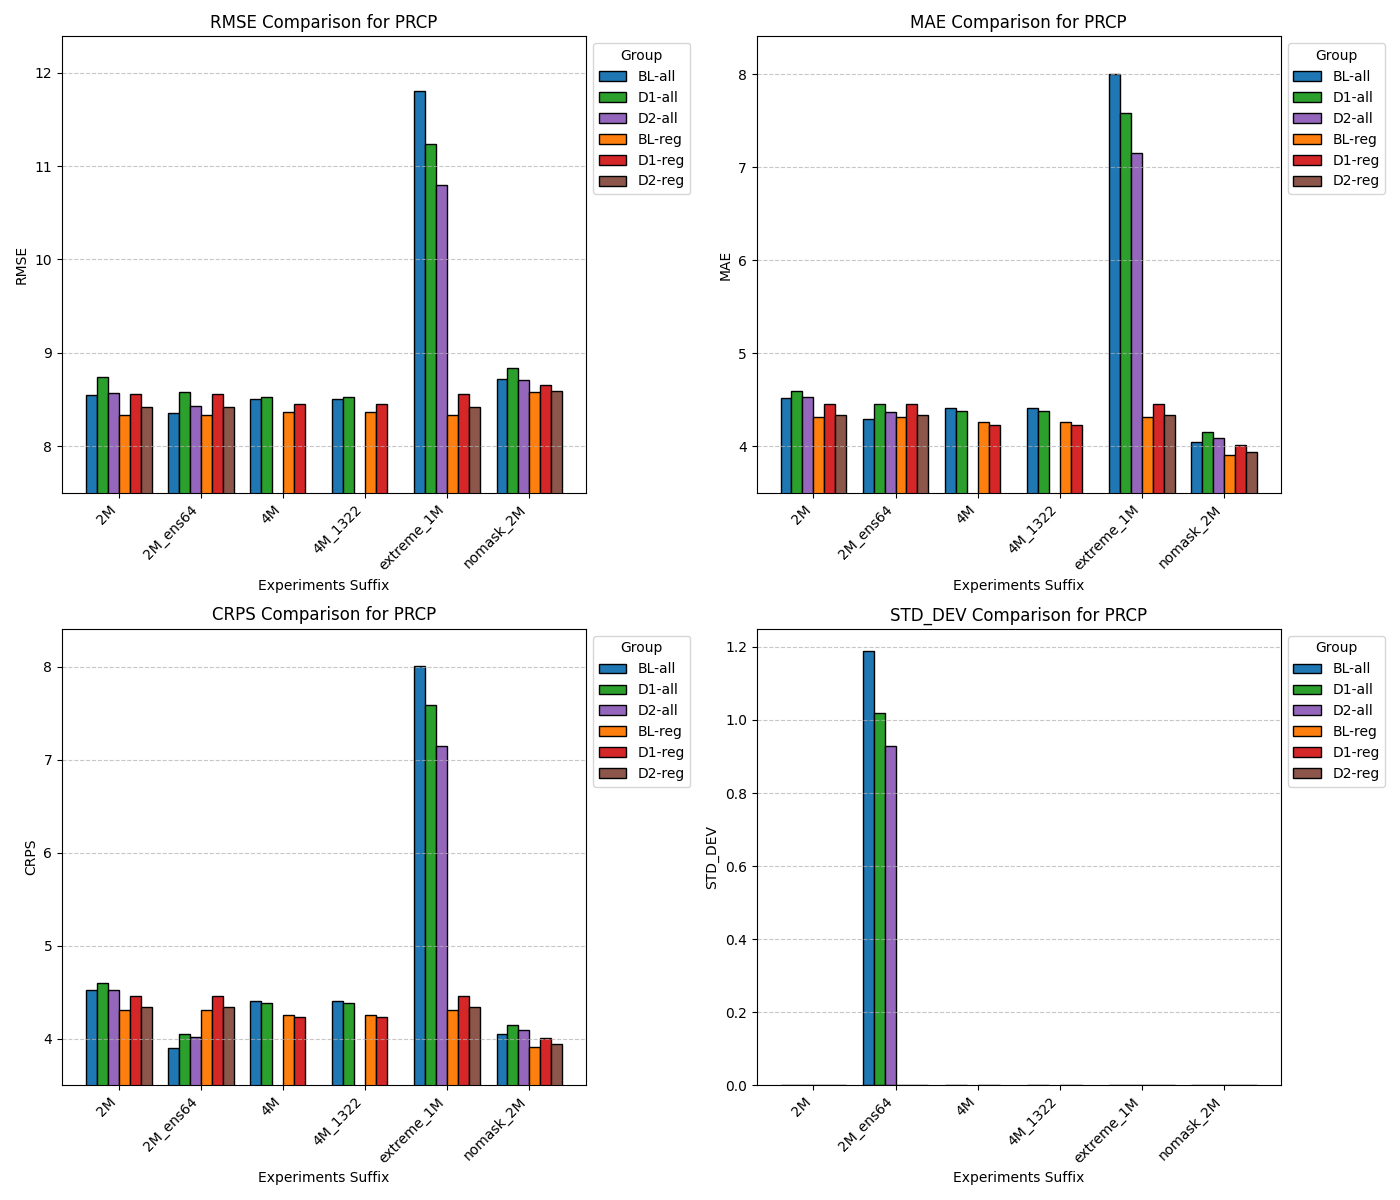
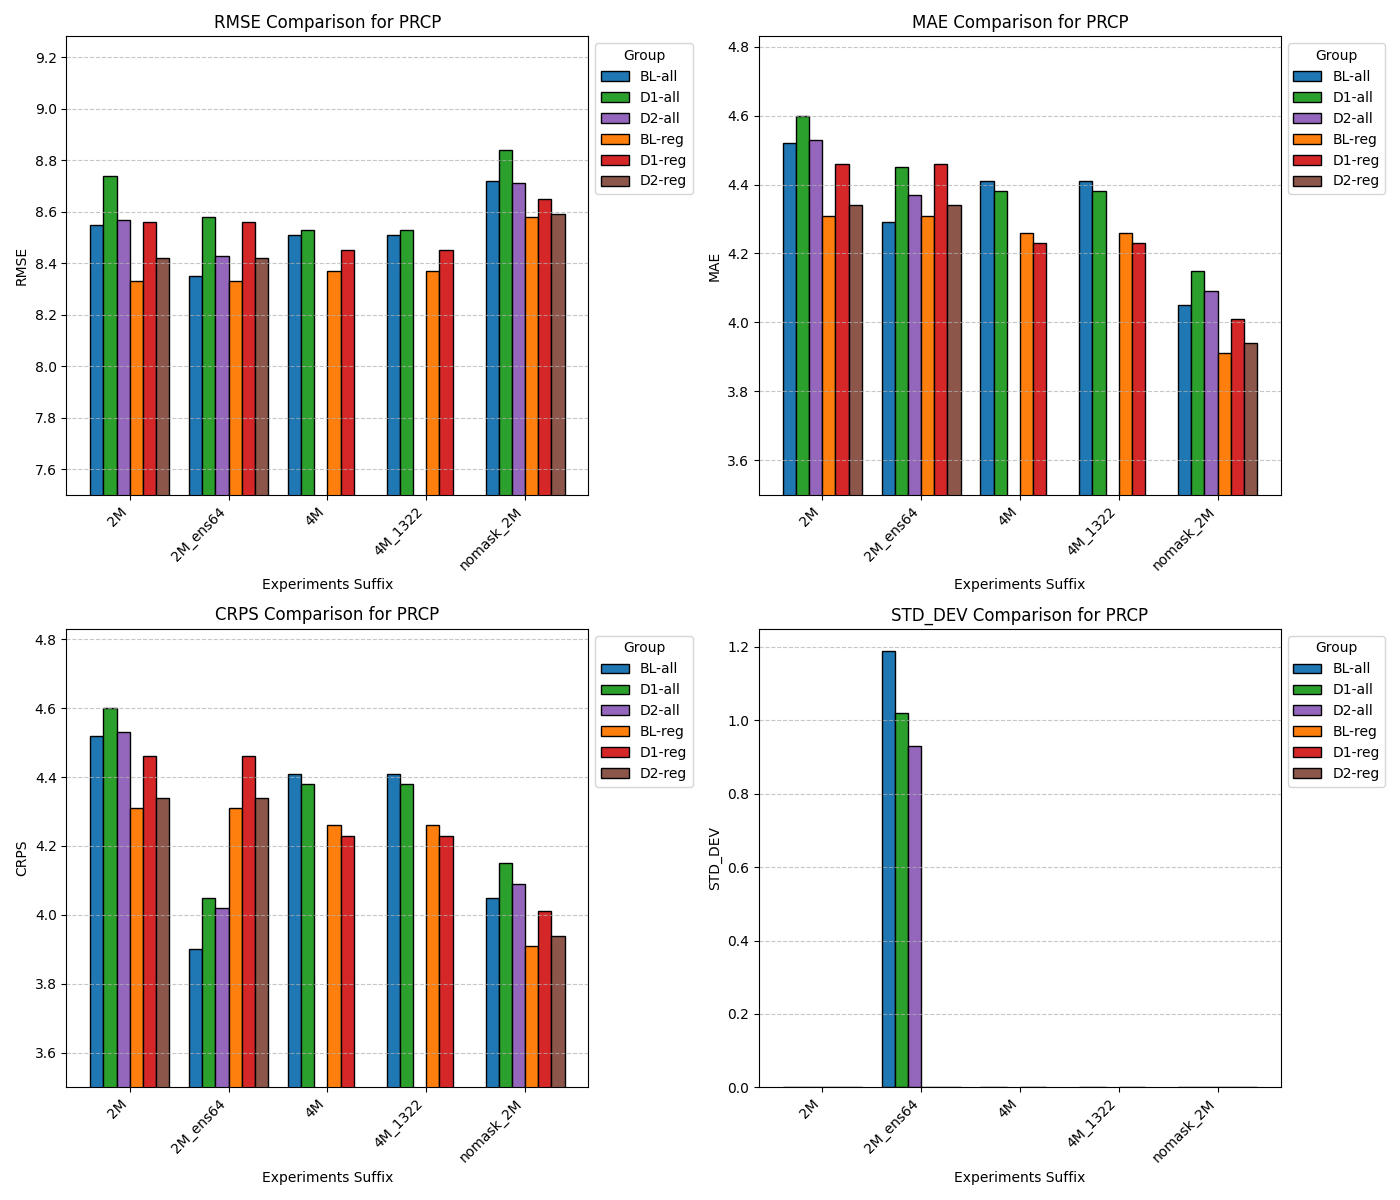
Remove extreme_1M metrics from PRCP comparison plot.

diff --git a/plot_prcp_metrics.py b/plot_prcp_metrics.py
@@ -28,7 +28,7 @@ def extract_prcp_metrics(folder_path: str) -> pd.DataFrame:
 
     folder = Path(folder_path)
     for exp_dir in folder.iterdir():
-        if not exp_dir.is_dir() or exp_dir.name.endswith("_ds4"):
+        if not exp_dir.is_dir() or exp_dir.name.endswith("_extreme_1M"):
             continue
 
         for label in ["all", "reg"]:  # Include both dataset types
